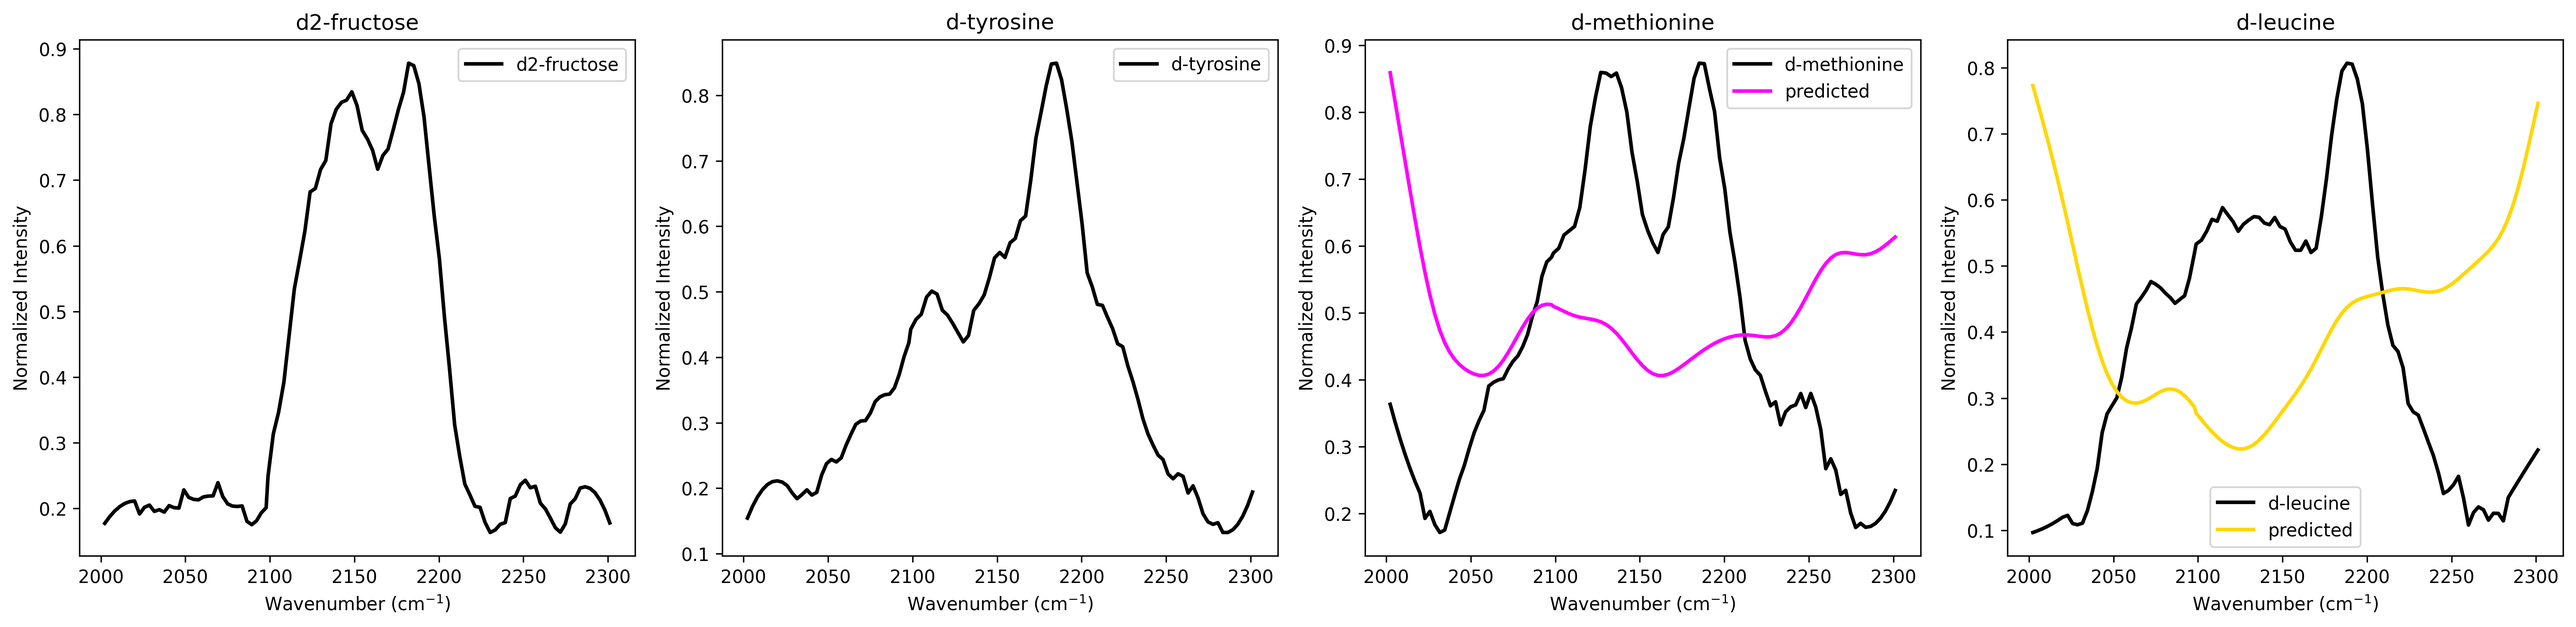
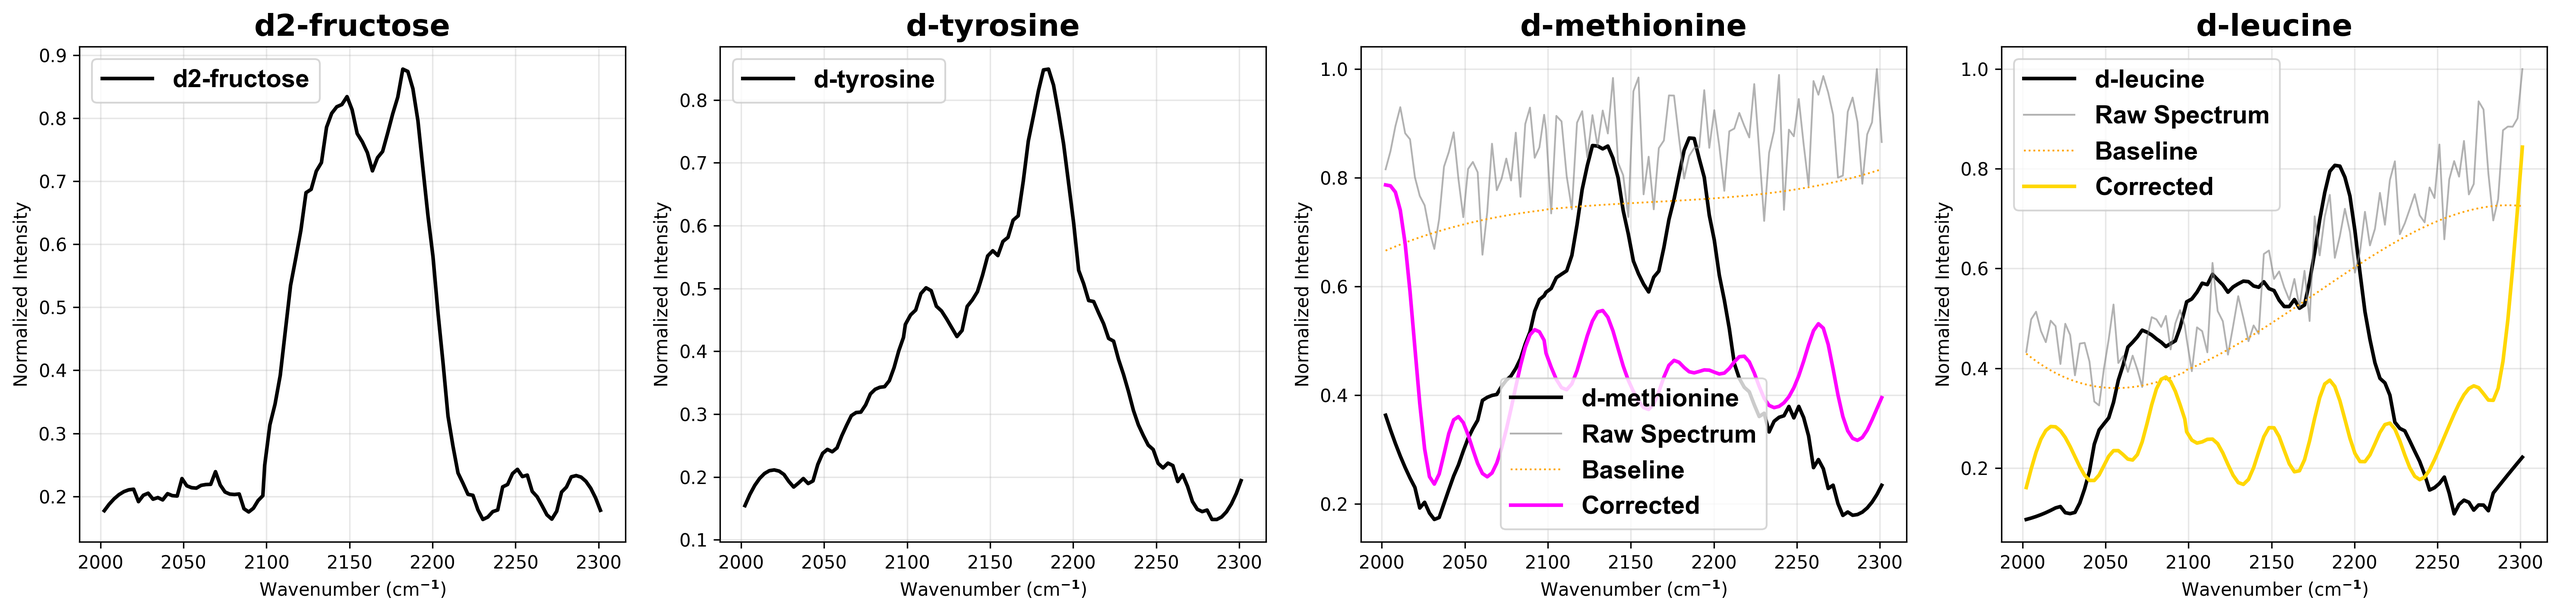
Updated the poly baseline correction to show the final predicted spectra

diff --git a/hsi_infer.py b/hsi_infer.py
@@ -15,7 +15,7 @@ from scipy.sparse.linalg import spsolve
 from tqdm import tqdm
 
 from model import LipidNet
-from utils import airpls_baseline, normalize_spectrum, smooth_spectrum
+from utils import *
 
 
 class HSIPredictor:
@@ -129,12 +129,6 @@ class HSIPredictor:
                 predictions.append(probs.cpu().numpy())
 
         self.predictions = np.concatenate(predictions, axis=0)
-        for name, model_idx in self.target_indices.items():
-            pred_probs = self.predictions[:, model_idx]
-            print(f"{name}:")
-            print(f"  Max prob: {np.max(pred_probs):.4f}")
-            print(f"  Mean prob: {np.mean(pred_probs):.4f}")
-            print(f"  Pixels > threshold: {np.sum(pred_probs > self.prob_thresh)}")
 
         prediction_maps = {}
 
@@ -183,38 +177,91 @@ class HSIPredictor:
         plt.savefig(os.path.join(output_dir, "merged.png"), dpi=300, bbox_inches="tight")
         plt.close()
 
+        print("Saving high probability spectra...")
+        spectra_data = {"wavenumber": self.wavenumbers}
+        valid_predictions = {}
+        for name, model_idx in self.target_indices.items():
+            prob_values = self.predictions[:, model_idx].copy()
+            prob_values[background_mask.flatten()] = 0
+            max_prob = np.max(prob_values)
+            print(f"\n{name}:")
+            print(f"Maximum probability: {max_prob:.4f}")
+
+            if max_prob >= self.prob_thresh:
+                max_prob_idx = np.argmax(prob_values)
+                raw_spec = self.original_spectra[max_prob_idx]
+                interpolated_spec = self.interpolate_spectrum(raw_spec, self.img_wavenumbers)
+
+                spectra_data[f"{name}_raw"] = interpolated_spec
+                spectra_data[f"{name}_prob"] = max_prob
+                valid_predictions[name] = True
+                print(f"✓ Saved spectrum (prob: {max_prob:.4f})")
+            else:
+                valid_predictions[name] = False
+                print(f"✗ No valid prediction above threshold ({self.prob_thresh})")
+
+        if not any(valid_predictions.values()):
+            print("\nWarning: No predictions above probability threshold!")
+            return
+
+        # Save to CSV
+        df = pd.DataFrame(spectra_data)
+        csv_path = os.path.join(output_dir, "high_prob_spectra.csv")
+        df.to_csv(csv_path, index=False)
+        print(f"Saved spectra to {csv_path}")
+
         # Plot spectral comparisons with matching colors
-        self._plot_spectral_comparisons(spectra_by_type, output_dir)
+        self._plot_spectral_comparisons(spectra_by_type, output_dir, use_csv=False)
         print("All visualizations saved!")
 
-    def _plot_spectral_comparisons(self, spectra_by_type: Dict[str, List[np.ndarray]], output_dir: str):
+    def _plot_spectral_comparisons(
+        self, spectra_by_type: Dict[str, List[np.ndarray]], output_dir: str, use_csv=False
+    ):
         """Plot predicted spectra vs references"""
         n_types = len(self.target)
         fig, axes = plt.subplots(1, n_types, figsize=(5 * n_types, 5))
         plt.style.use("seaborn-v0_8-pastel")
         plt.rcParams.update({"font.size": 14, "font.family": "Arial", "font.weight": "bold"})
+        spectra_df = None
+        if use_csv:
+            csv_path = os.path.join(output_dir, "high_prob_spectra.csv")
+            if not os.path.exists(csv_path):
+                raise FileNotFoundError(f"No saved spectra found at {csv_path}")
+            spectra_df = pd.read_csv(csv_path)
+
         for idx, subtype in enumerate(self.target):
             ax = axes[idx] if n_types > 1 else axes
             color = self.colors[subtype]
+            raw_spec = None
+            # Plot reference spectrum
             ref_spectrum = self.ref[self.ref["name"] == subtype].iloc[0, 1:].values
             ax.plot(self.wavenumbers, ref_spectrum, "k-", label=f"{subtype}", linewidth=2)
 
-            if spectra_by_type[subtype]:
-                model_idx = self.target_indices[subtype]
-                pixel_indices = spectra_by_type[subtype]
+            if use_csv:
+                if f"{subtype}_raw" in spectra_df.columns:
+                    raw_spec = spectra_df[f"{subtype}_raw"].values
 
-                # Get the highest probability pixel
-                probs = self.predictions[pixel_indices, model_idx]
-                max_idx = pixel_indices[np.argmax(probs)]
+            else:
+                if spectra_by_type[subtype]:
+                    model_idx = self.target_indices[subtype]
+                    pixel_indices = spectra_by_type[subtype]
 
-                # Get the raw spectra
-                raw_spec = self.original_spectra[max_idx]
-                raw_spec = self.interpolate_spectrum(raw_spec, self.img_wavenumbers)
+                    # Get the highest probability pixel
+                    probs = self.predictions[pixel_indices, model_idx]
+                    max_idx = pixel_indices[np.argmax(probs)]
 
-                # Process the spectra
-                corrected, baseline = airpls_baseline(raw_spec)
-                smoothed = smooth_spectrum(corrected)
+                    # Get the raw spectra
+                    raw_spec = self.original_spectra[max_idx]
+                    raw_spec = self.interpolate_spectrum(raw_spec, self.img_wavenumbers)
 
+            if raw_spec is not None:
+                raw_spec = normalize_spectrum(raw_spec)
+
+                # Apply wavelet baseline correction
+                corrected, baseline = modpoly_baseline(raw_spec)
+                smoothed = smooth_spectrum(normalize_spectrum(corrected))
+
+                # Plot spectra
                 ax.plot(
                     self.wavenumbers, raw_spec, color="#808080", label="Raw Spectrum", linewidth=1, alpha=0.6
                 )
@@ -223,32 +270,7 @@ class HSIPredictor:
                 )
                 ax.plot(self.wavenumbers, smoothed, color=color, label="Corrected", linewidth=2)
 
-                # pred_spectra = []
-                # for pixel_idx in spectra_by_type[subtype]:
-                #     raw_spectrum = self.original_spectra[pixel_idx]
-                #     # processed = self.baseline_als(raw_spectrum)
-                #     # processed = self.normalize_spectrum(processed)
-                #     # processed = self.smooth_spectrum(processed)
-                #     interpolated = self.interpolate_spectrum(raw_spectrum, self.img_wavenumbers)
-                #     pred_spectra.append(interpolated)
-
-                # pred_spectra = np.array(pred_spectra)
-                # mean_spectrum = np.mean(pred_spectra, axis=0)
-                # processed = self.modpoly_baseline(mean_spectrum)
-                # processed = self.normalize_spectrum(processed)
-                # mean_spectrum = self.smooth_spectrum(processed)
-
-                # std_spectrum = np.std(pred_spectra, axis=0)
-
-                # ax.fill_between(
-                #     self.wavenumbers,
-                #     mean_spectrum - std_spectrum,
-                #     mean_spectrum + std_spectrum,
-                #     color=color,
-                #     alpha=0.2,
-                # )
-
-            ax.set_title(subtype)
+            ax.set_title(subtype, fontweight="bold")
             ax.set_xlabel("Wavenumber (cm$^{-1}$)")
             ax.set_ylabel("Normalized Intensity")
             ax.legend()
@@ -257,6 +279,31 @@ class HSIPredictor:
         plt.tight_layout()
         plt.savefig(os.path.join(output_dir, "spectral_comparisons.png"), dpi=300, bbox_inches="tight")
         plt.close()
+
+        # pred_spectra = []
+        # for pixel_idx in spectra_by_type[subtype]:
+        #     raw_spectrum = self.original_spectra[pixel_idx]
+        #     # processed = self.baseline_als(raw_spectrum)
+        #     # processed = self.normalize_spectrum(processed)
+        #     # processed = self.smooth_spectrum(processed)
+        #     interpolated = self.interpolate_spectrum(raw_spectrum, self.img_wavenumbers)
+        #     pred_spectra.append(interpolated)
+
+        # pred_spectra = np.array(pred_spectra)
+        # mean_spectrum = np.mean(pred_spectra, axis=0)
+        # processed = self.modpoly_baseline(mean_spectrum)
+        # processed = self.normalize_spectrum(processed)
+        # mean_spectrum = self.smooth_spectrum(processed)
+
+        # std_spectrum = np.std(pred_spectra, axis=0)
+
+        # ax.fill_between(
+        #     self.wavenumbers,
+        #     mean_spectrum - std_spectrum,
+        #     mean_spectrum + std_spectrum,
+        #     color=color,
+        #     alpha=0.2,
+        # )
 
 
 def main():
@@ -288,7 +335,8 @@ def main():
 
     predictor = HSIPredictor(model_path=args.model_path, library_path=args.library_path, target=args.target)
 
-    predictor.predict_hsi(args.image_path, args.output_dir)
+    # predictor.predict_hsi(args.image_path, args.output_dir)
+    predictor._plot_spectral_comparisons(None, args.output_dir, use_csv=True)
 
 
 if __name__ == "__main__":

diff --git a/utils.py b/utils.py
@@ -4,10 +4,12 @@ from typing import List, Optional, Union
 import matplotlib.pyplot as plt
 import numpy as np
 import pandas as pd
+import pywt
 import rampy as rp
 import torch
 from scipy import sparse
 from scipy.interpolate import interp1d
+from scipy.optimize import curve_fit
 from scipy.sparse.linalg import spsolve
 from sklearn.manifold import TSNE
 
@@ -41,6 +43,55 @@ def airpls_baseline(y: np.ndarray, lam: float = 1e3, niter: int = 15, tol: float
     return y - z, z
 
 
+def modpoly_baseline(spectrum, poly_order=3, max_iter=50, tol=1e-2):
+    """
+    Modified polynomial baseline correction.
+    Iteratively fits polynomial to points likely to be baseline.
+
+    Args:
+        spectrum: Input spectrum array
+        poly_order: Order of polynomial to fit
+        max_iter: Maximum number of iterations
+        tol: Convergence tolerance
+
+    Returns:
+        corrected: Baseline-corrected spectrum
+        baseline: Estimated baseline
+    """
+    x = np.arange(len(spectrum))
+    y = spectrum.copy()
+    x_norm = (x - x.min()) / (x.max() - x.min())
+    window_size = len(x) // 10
+    if window_size % 2 == 0:
+        window_size += 1
+    y_smooth = np.convolve(y, np.ones(window_size) / window_size, mode="valid")
+    y_smooth = np.pad(y_smooth, (window_size // 2, window_size // 2), mode="edge")
+    coeff = np.polyfit(x_norm, y_smooth, poly_order)
+    baseline = np.polyval(coeff, x_norm)
+
+    prev_chisq = float("inf")
+    for _ in range(max_iter):
+        residuals = y - baseline
+
+        weights = 1.0 / (1.0 + np.exp(2.0 * residuals / np.std(residuals)))
+        weights = np.maximum(weights, 0.1)
+
+        # Weighted polynomial fit
+        coeff = np.polyfit(x_norm, y, poly_order, w=weights)
+        baseline = np.polyval(coeff, x_norm)
+
+        # Check convergence
+        chisq = np.sum(weights * (y - baseline) ** 2)
+        if abs(chisq - prev_chisq) < tol:
+            break
+        prev_chisq = chisq
+
+    corrected = y - baseline
+    corrected = np.maximum(corrected, 0)
+
+    return corrected, baseline
+
+
 def normalize_spectrum(spectrum: np.ndarray):
     """Normalize spectrum to max intensity"""
     if np.all(spectrum == 0):
@@ -48,7 +99,7 @@ def normalize_spectrum(spectrum: np.ndarray):
     return spectrum / np.max(spectrum) if np.max(spectrum) != 0 else spectrum
 
 
-def smooth_spectrum(spectrum: np.ndarray, lamda=20):
+def smooth_spectrum(spectrum: np.ndarray, lamda=10):
     """Smooth spectrum using Whittaker smoother"""
     if np.all(spectrum == 0):
         return spectrum
